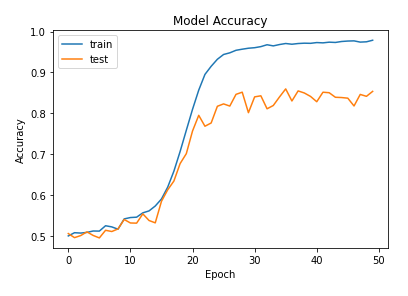
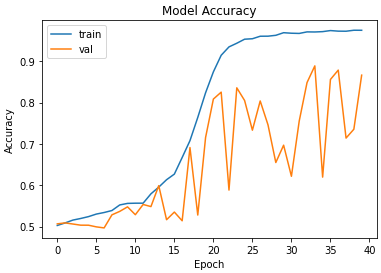
Updated readme to show current best results. Slight change to code comments.

Changed region(s): [[0.0, 0.0293, 1.0, 0.9963], [0.7507, 0.2344, 0.9528, 0.6447], [0.231, 0.9084, 0.2598, 0.9377]]

diff --git a/recognition/s4642283-ADNI-SIAMESE/modules.py b/recognition/s4642283-ADNI-SIAMESE/modules.py
@@ -21,7 +21,7 @@ def siamese_model(input_shape):
     x = layers.Conv2D(128, (4, 4), activation="relu", kernel_regularizer=tf.keras.regularizers.l2(1e-3))(x)
     x = layers.Flatten()(x)
 
-    # Produce 10 dimensional vector
+    # Produce 50 dimensional vector
     x = tf.keras.layers.BatchNormalization()(x)
     x = layers.Dense(50, activation="relu")(x)
     embedding_network = keras.Model(input, x)

diff --git a/recognition/s4642283-ADNI-SIAMESE/README.MD b/recognition/s4642283-ADNI-SIAMESE/README.MD
@@ -41,12 +41,12 @@ The `predict.py` will take a file path from the directory `predict.py` is in as 
 
 ## Results
 
-Although several attempts and different architectures were created, the most successful one achieved a test accuracy of 85.35% for the SNN while the classifier achieved an accuracy over the entire dataset of 60.75%. The architecture that achieved this is given in the `modules.py` file. The training and validation accuracies and losses can be seen below (note that validation was named 'test' on accident, sorry for the confusion).
+Although several attempts and different architectures were created, the most successful one achieved a test accuracy of 86.12% for the SNN while the classifier achieved an accuracy over the entire dataset of 88.79%. The architecture that achieved this is given in the `modules.py` file. The training and validation accuracies and losses can be seen below.
 
 ![Screenshot](images/acc.png)
 ![Screenshot](images/loss.png)
 
-Evidently, although it trained for 50 epochs, the architecture seems to reach around a 80% accuracy on the validation within 25 epochs, and doesn't increase much higher than that. We can also see that the validation loss doesn't really decrease after 22 epochs, and the model is clearly overfitting after ~25 epochs. Using the embedding layer from this architecture, the classification model achieved a 60.75% accuracy on the entire dataset. I have tried a lot to improve this, but I just can't seem to get it going better, although I think the most obvious route to improve it would be to battle overfitting better. A screenshot of the classifier's accuracy output can be seen below:
+Evidently, although it trained for 40 epochs, the architecture seems to reach around a 80% accuracy on the validation within 20 epochs, and doesn't increase much higher than that. We can also see that the validation loss doesn't really decrease after 22 epochs, and the model is clearly overfitting after ~22 epochs. Using the embedding layer from this architecture, the classification model achieved a 88.79% accuracy on the entire dataset. I have tried a lot to improve this, but I just can't seem to get it going better, although I think the most obvious route to improve it would be to battle overfitting better. A screenshot of the classifier's accuracy output can be seen below:
 
 ![Screenshot](images/classifier_acc.png)
 
@@ -54,7 +54,7 @@ In addition to this, I've provided an example of the training output (note that 
 
 ![Screenshot](images/example_training.png)
 
-Hence, although the SNN does well at comparing a pair of brain scans and determining whether they both of Alzheimer's, both are Alzheimer-free or they are not similar, the classifier based on the SNN does not seem to perform as well.
+I'd also like to quickly mention (which is also slightly touched on in the reproducability section) that these results fluctuate quite a bit. I'm not certain why the model's loss and accuracy very so significantly, but over the several runs I've done with this architecture, the model will very regularly achieve a high training, validation and testing accuracies, with a classifier accuracy ranging from ~71% to ~88%.
 
 ## Dependencies
 
@@ -70,11 +70,11 @@ This project has the following dependencies:
 
 ## Note on Hardware
 
-I should note that the code (and the results above) come from me executing this code in a google colab environment.
+I should note that the code (and the results above) come from me executing this code in a google colab environment. I've tried running this code a number of different ways, but I find that there can be memory issues (but its hard to tell if it's just my machine, since I have very little free memory). Hence, if you attempt to run `train.py` but encounter memory issues, I highly encourage you to try training in google colab. Alternatively, I think you can decrease the batch size (which is quite high since I was, again, running in google colab) and increase epochs to try and get the same results but without having spatially-complex matrices during each iteration (and hence avoiding the memory issue), but I have not tried this.
 
 ## Note on Reproducability
 
-It should be noted tht reproducing the results above might be a little difficult, since the data is randomly split, and so you each run might take less (or more) epochs to reach the ~80% validation accuracy. However, from repeated runs, I've found that it will almost always reach ~80% accuracy with 30-45 epochs.
+It should be noted that reproducing the results above might be a little difficult, since the data is randomly split, and so you each run might take less (or more) epochs to reach the ~80% validation accuracy. However, from repeated runs, I've found that it will almost always reach ~80% accuracy with 25-40 epochs, and the results should be reproducable.
 
 ## References
 [1] https://keras.io/examples/vision/siamese_contrastive/ 
